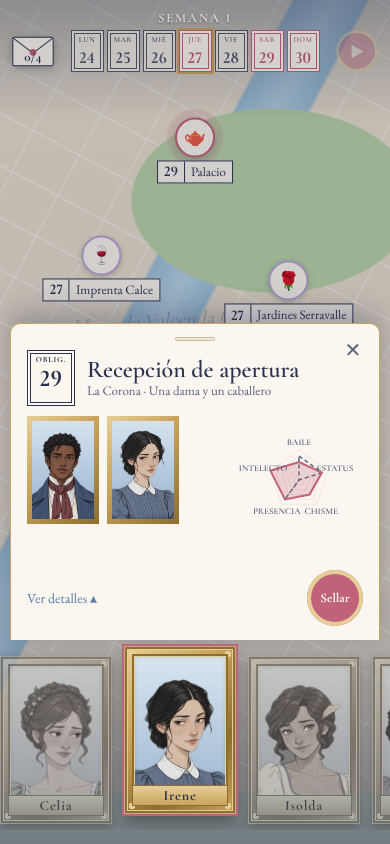
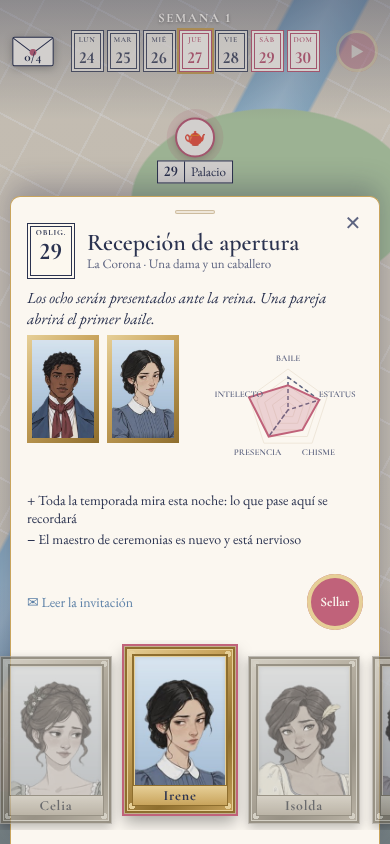
Referencias para Figma Make: mapa, hoja con el papel desde el borde y estilo de la v4; maqueta sin 'ver detalles'
Claude-Session: https://claude.ai/code/session_01B8TNs866CJTSu1G3N3URoL

diff --git a/diseno/maqueta/index.html b/diseno/maqueta/index.html
@@ -102,16 +102,17 @@ button{font:inherit;color:inherit}
 .mundo{position:absolute;inset:0;transition:transform .45s cubic-bezier(.2,.8,.2,1)}
 .velo{position:absolute;inset:0;z-index:4;background:rgba(30,30,50,.18);opacity:0;pointer-events:none;transition:opacity .3s}
 .velo.on{opacity:1;pointer-events:auto}
-.hoja{--mano:206px;position:absolute;z-index:5;left:10px;right:10px;bottom:var(--mano);
-  max-height:calc(100% - var(--mano) - 80px);overflow:hidden;background:var(--marfil);border:1px solid var(--oro);border-bottom:none;border-radius:10px 10px 0 0;
-  padding:4px 16px 14px;box-shadow:0 -10px 28px rgba(30,30,60,.28);transform:translateY(calc(100% + var(--mano)));
+.hoja{--mano:206px;position:absolute;z-index:5;left:10px;right:10px;bottom:0;
+  max-height:calc(100% - 80px);overflow:hidden;padding-bottom:calc(var(--mano) + 10px)!important;background:var(--marfil);border:1px solid var(--oro);border-bottom:none;border-radius:10px 10px 0 0;
+  padding:4px 16px 14px;box-shadow:0 -10px 28px rgba(30,30,60,.28);transform:translateY(100%);
   transition:transform .38s cubic-bezier(.2,.8,.2,1), max-height .35s ease;touch-action:none}
 .hoja.on{transform:translateY(0)}
 .hoja.expandida{overflow-y:auto;touch-action:pan-y}
 .hoja .asa{display:block;width:100%;height:22px;border:none;background:none;cursor:grab;position:relative}
 .hoja .asa::before{content:"";position:absolute;left:50%;top:9px;width:40px;height:4px;border-radius:2px;background:var(--marfil-sombra);transform:translateX(-50%);box-shadow:inset 0 0 0 1px rgba(142,110,46,.35)}
-.detalle{display:none}
-.hoja.expandida .detalle{display:block}
+.detalle{display:block}
+.carta-completa{display:none}
+.hoja.expandida .carta-completa{display:block}
 .mas{background:none;border:none;color:var(--seda-hondo);font-size:14px;cursor:pointer;padding:6px 0}
 .hoja.expandida .mas .t1, .hoja:not(.expandida) .mas .t2{display:none}
 .marcador.activo .icono{box-shadow:0 0 0 4px rgba(192,98,122,.35),0 2px 6px rgba(0,0,0,.2);animation:pulso 1.6s ease-in-out infinite}
@@ -232,11 +233,12 @@ function pintarEvento(){const {e,plazas}=abierto;const n=e.plazas.max;const h=$(
   const listo=plazas.length>=e.plazas.min, exp=h.classList.contains("expandida");
   h.innerHTML=`<button class="asa" aria-label="Arrastre para ver más o cerrar"></button><button class="cerrar" aria-label="Cerrar">✕</button>
    <div class="cab"><div class="fecha-g"><small>${e.obligatorio?"OBLIG.":DSEM[e.dia]}</small>${e.dia}</div><div><h2>${e.titulo}</h2><div class="sub">${e.anfitrion} · ${e.reglaN}</div></div></div>
-   <div class="fila" style="margin-top:10px;justify-content:space-between"><div class="plazas">${pl}</div>${e.requisito?radar(e.requisito,plazas,150):""}</div>
+   <p class="cita" style="margin:8px 0 6px">${e.resumen}</p>
+   <div class="fila" style="justify-content:space-between"><div class="plazas">${pl}</div>${e.requisito?radar(e.requisito,plazas,150):""}</div>
+   <ul class="lista" style="margin-top:6px">${e.a_favor.map(x=>`<li>+ ${x}</li>`).join("")}${e.en_contra.map(x=>`<li>− ${x}</li>`).join("")}</ul>
    <div class="aviso" id="aviso">${plazas.length?"":"Toque las cartas de abajo para invitar."}</div>
-   <div class="pie" style="margin-top:2px"><button class="mas" id="mas"><span class="t1">Ver detalles ▴</span><span class="t2">Menos ▾</span></button><button class="sello-g ${listo?'listo':''}" id="responder">Sellar</button></div>
-   <div class="detalle"><p class="cita">${e.resumen}</p><ul class="lista">${e.a_favor.map(x=>`<li>+ ${x}</li>`).join("")}${e.en_contra.map(x=>`<li>− ${x}</li>`).join("")}</ul>
-   <div class="etiqueta">La carta</div><p class="sub">${e.carta.saludo}</p><p class="bio" style="white-space:pre-line">${e.carta.cuerpo}</p><p style="font-family:var(--display);font-style:italic;font-size:20px;text-align:right;margin:4px 0 0">${e.carta.firma}</p></div>`;
+   <div class="pie" style="margin-top:2px"><button class="mas" id="mas"><span class="t1">✉ Leer la invitación</span><span class="t2">✉ Cerrar la invitación</span></button><button class="sello-g ${listo?'listo':''}" id="responder">Sellar</button></div>
+   <div class="carta-completa"><div class="etiqueta">La invitación</div><p class="sub">${e.carta.saludo}</p><p class="bio" style="white-space:pre-line">${e.carta.cuerpo}</p><p style="font-family:var(--display);font-style:italic;font-size:20px;text-align:right;margin:4px 0 0">${e.carta.firma}</p></div>`;
   h.classList.toggle("expandida",exp);
   $(".cerrar").onclick=cerrar;$("#mas").onclick=()=>h.classList.toggle("expandida");
   document.querySelectorAll(".plaza.llena").forEach(el=>el.onclick=()=>{abierto.plazas.splice(+el.dataset.i,1);pintarEvento();render()});

diff --git a/diseno/maqueta/plantilla.html b/diseno/maqueta/plantilla.html
@@ -102,16 +102,17 @@ button{font:inherit;color:inherit}
 .mundo{position:absolute;inset:0;transition:transform .45s cubic-bezier(.2,.8,.2,1)}
 .velo{position:absolute;inset:0;z-index:4;background:rgba(30,30,50,.18);opacity:0;pointer-events:none;transition:opacity .3s}
 .velo.on{opacity:1;pointer-events:auto}
-.hoja{--mano:206px;position:absolute;z-index:5;left:10px;right:10px;bottom:var(--mano);
-  max-height:calc(100% - var(--mano) - 80px);overflow:hidden;background:var(--marfil);border:1px solid var(--oro);border-bottom:none;border-radius:10px 10px 0 0;
-  padding:4px 16px 14px;box-shadow:0 -10px 28px rgba(30,30,60,.28);transform:translateY(calc(100% + var(--mano)));
+.hoja{--mano:206px;position:absolute;z-index:5;left:10px;right:10px;bottom:0;
+  max-height:calc(100% - 80px);overflow:hidden;padding-bottom:calc(var(--mano) + 10px)!important;background:var(--marfil);border:1px solid var(--oro);border-bottom:none;border-radius:10px 10px 0 0;
+  padding:4px 16px 14px;box-shadow:0 -10px 28px rgba(30,30,60,.28);transform:translateY(100%);
   transition:transform .38s cubic-bezier(.2,.8,.2,1), max-height .35s ease;touch-action:none}
 .hoja.on{transform:translateY(0)}
 .hoja.expandida{overflow-y:auto;touch-action:pan-y}
 .hoja .asa{display:block;width:100%;height:22px;border:none;background:none;cursor:grab;position:relative}
 .hoja .asa::before{content:"";position:absolute;left:50%;top:9px;width:40px;height:4px;border-radius:2px;background:var(--marfil-sombra);transform:translateX(-50%);box-shadow:inset 0 0 0 1px rgba(142,110,46,.35)}
-.detalle{display:none}
-.hoja.expandida .detalle{display:block}
+.detalle{display:block}
+.carta-completa{display:none}
+.hoja.expandida .carta-completa{display:block}
 .mas{background:none;border:none;color:var(--seda-hondo);font-size:14px;cursor:pointer;padding:6px 0}
 .hoja.expandida .mas .t1, .hoja:not(.expandida) .mas .t2{display:none}
 .marcador.activo .icono{box-shadow:0 0 0 4px rgba(192,98,122,.35),0 2px 6px rgba(0,0,0,.2);animation:pulso 1.6s ease-in-out infinite}
@@ -232,11 +233,12 @@ function pintarEvento(){const {e,plazas}=abierto;const n=e.plazas.max;const h=$(
   const listo=plazas.length>=e.plazas.min, exp=h.classList.contains("expandida");
   h.innerHTML=`<button class="asa" aria-label="Arrastre para ver más o cerrar"></button><button class="cerrar" aria-label="Cerrar">✕</button>
    <div class="cab"><div class="fecha-g"><small>${e.obligatorio?"OBLIG.":DSEM[e.dia]}</small>${e.dia}</div><div><h2>${e.titulo}</h2><div class="sub">${e.anfitrion} · ${e.reglaN}</div></div></div>
-   <div class="fila" style="margin-top:10px;justify-content:space-between"><div class="plazas">${pl}</div>${e.requisito?radar(e.requisito,plazas,150):""}</div>
+   <p class="cita" style="margin:8px 0 6px">${e.resumen}</p>
+   <div class="fila" style="justify-content:space-between"><div class="plazas">${pl}</div>${e.requisito?radar(e.requisito,plazas,150):""}</div>
+   <ul class="lista" style="margin-top:6px">${e.a_favor.map(x=>`<li>+ ${x}</li>`).join("")}${e.en_contra.map(x=>`<li>− ${x}</li>`).join("")}</ul>
    <div class="aviso" id="aviso">${plazas.length?"":"Toque las cartas de abajo para invitar."}</div>
-   <div class="pie" style="margin-top:2px"><button class="mas" id="mas"><span class="t1">Ver detalles ▴</span><span class="t2">Menos ▾</span></button><button class="sello-g ${listo?'listo':''}" id="responder">Sellar</button></div>
-   <div class="detalle"><p class="cita">${e.resumen}</p><ul class="lista">${e.a_favor.map(x=>`<li>+ ${x}</li>`).join("")}${e.en_contra.map(x=>`<li>− ${x}</li>`).join("")}</ul>
-   <div class="etiqueta">La carta</div><p class="sub">${e.carta.saludo}</p><p class="bio" style="white-space:pre-line">${e.carta.cuerpo}</p><p style="font-family:var(--display);font-style:italic;font-size:20px;text-align:right;margin:4px 0 0">${e.carta.firma}</p></div>`;
+   <div class="pie" style="margin-top:2px"><button class="mas" id="mas"><span class="t1">✉ Leer la invitación</span><span class="t2">✉ Cerrar la invitación</span></button><button class="sello-g ${listo?'listo':''}" id="responder">Sellar</button></div>
+   <div class="carta-completa"><div class="etiqueta">La invitación</div><p class="sub">${e.carta.saludo}</p><p class="bio" style="white-space:pre-line">${e.carta.cuerpo}</p><p style="font-family:var(--display);font-style:italic;font-size:20px;text-align:right;margin:4px 0 0">${e.carta.firma}</p></div>`;
   h.classList.toggle("expandida",exp);
   $(".cerrar").onclick=cerrar;$("#mas").onclick=()=>h.classList.toggle("expandida");
   document.querySelectorAll(".plaza.llena").forEach(el=>el.onclick=()=>{abierto.plazas.splice(+el.dataset.i,1);pintarEvento();render()});

diff --git a/diseno/figma-make/PROMPTS.md b/diseno/figma-make/PROMPTS.md
@@ -32,11 +32,12 @@ Fuentes:
 2. Abre **Code → guidelines → Guidelines.md** y reemplaza su contenido por el de [`Guidelines.md`](<Guidelines.md>) de esta carpeta.
 3. Ten a mano para adjuntar:
    - los 8 retratos (`diseno/maqueta/*_carta.jpg`);
-   - `ref_mapa.png` y `ref_hoja.png`, que son capturas de la maqueta HTML y sirven **sólo** para la disposición.
+   - `ref_mapa.png` y `ref_hoja.png`, que son capturas de la maqueta HTML y sirven **sólo** para la disposición (posiciones y proporciones). En `ref_hoja.png` el papel ya nace en el borde inferior, detrás de los retratos;
+   - `ref_estilo_figma_v4.png`, la pantalla anterior de Figma cuyo acabado gustó. Sirve **sólo** como referencia de estilo: la textura del mapa, el papel y la calidad. No hay que copiar su disposición, su barra ni sus textos.
 
 ### Paso 1 · El encargo (primer mensaje)
 
-Adjunta los 8 retratos y `ref_mapa.png`, y pega:
+Adjunta los 8 retratos, `ref_mapa.png` y `ref_estilo_figma_v4.png`, y pega:
 
 ```text
 Build the main screen of the Salverna mobile game prototype, following Guidelines.md exactly.
@@ -55,8 +56,10 @@ KEY ELEMENTS:
   Toque una carta para conocer a cada uno.»
 - Hand of eight PortraitCards using the attached portraits, in this order: Nilo, Saúl, Dario, Teo,
   Celia, Irene, Isolda, Camila.
-CONSTRAINTS: layout and visuals only in this step, no interactions yet. The attached screenshot is a
-LAYOUT reference only: match positions and proportions, but make the visual finish richer and more
+CONSTRAINTS: layout and visuals only in this step, no interactions yet. Attachments: the 8 portraits
+are the real character images (use them as-is inside the frames); "ref_mapa" is a LAYOUT reference only;
+"ref_estilo_figma_v4" is a STYLE reference only (map illustration quality, paper, finish), do not copy
+its layout, its top bar or its texts. For the layout reference: match positions and proportions, but make the visual finish richer and more
 period (gilded carved frames, filigree, almanac paper), as described in Guidelines.md.
 DONE WHEN: the screen looks like a polished period game screen, every element sits in the positions
 described, the portraits are rectangular with the name inside the frame, and nothing looks like a dating app.
